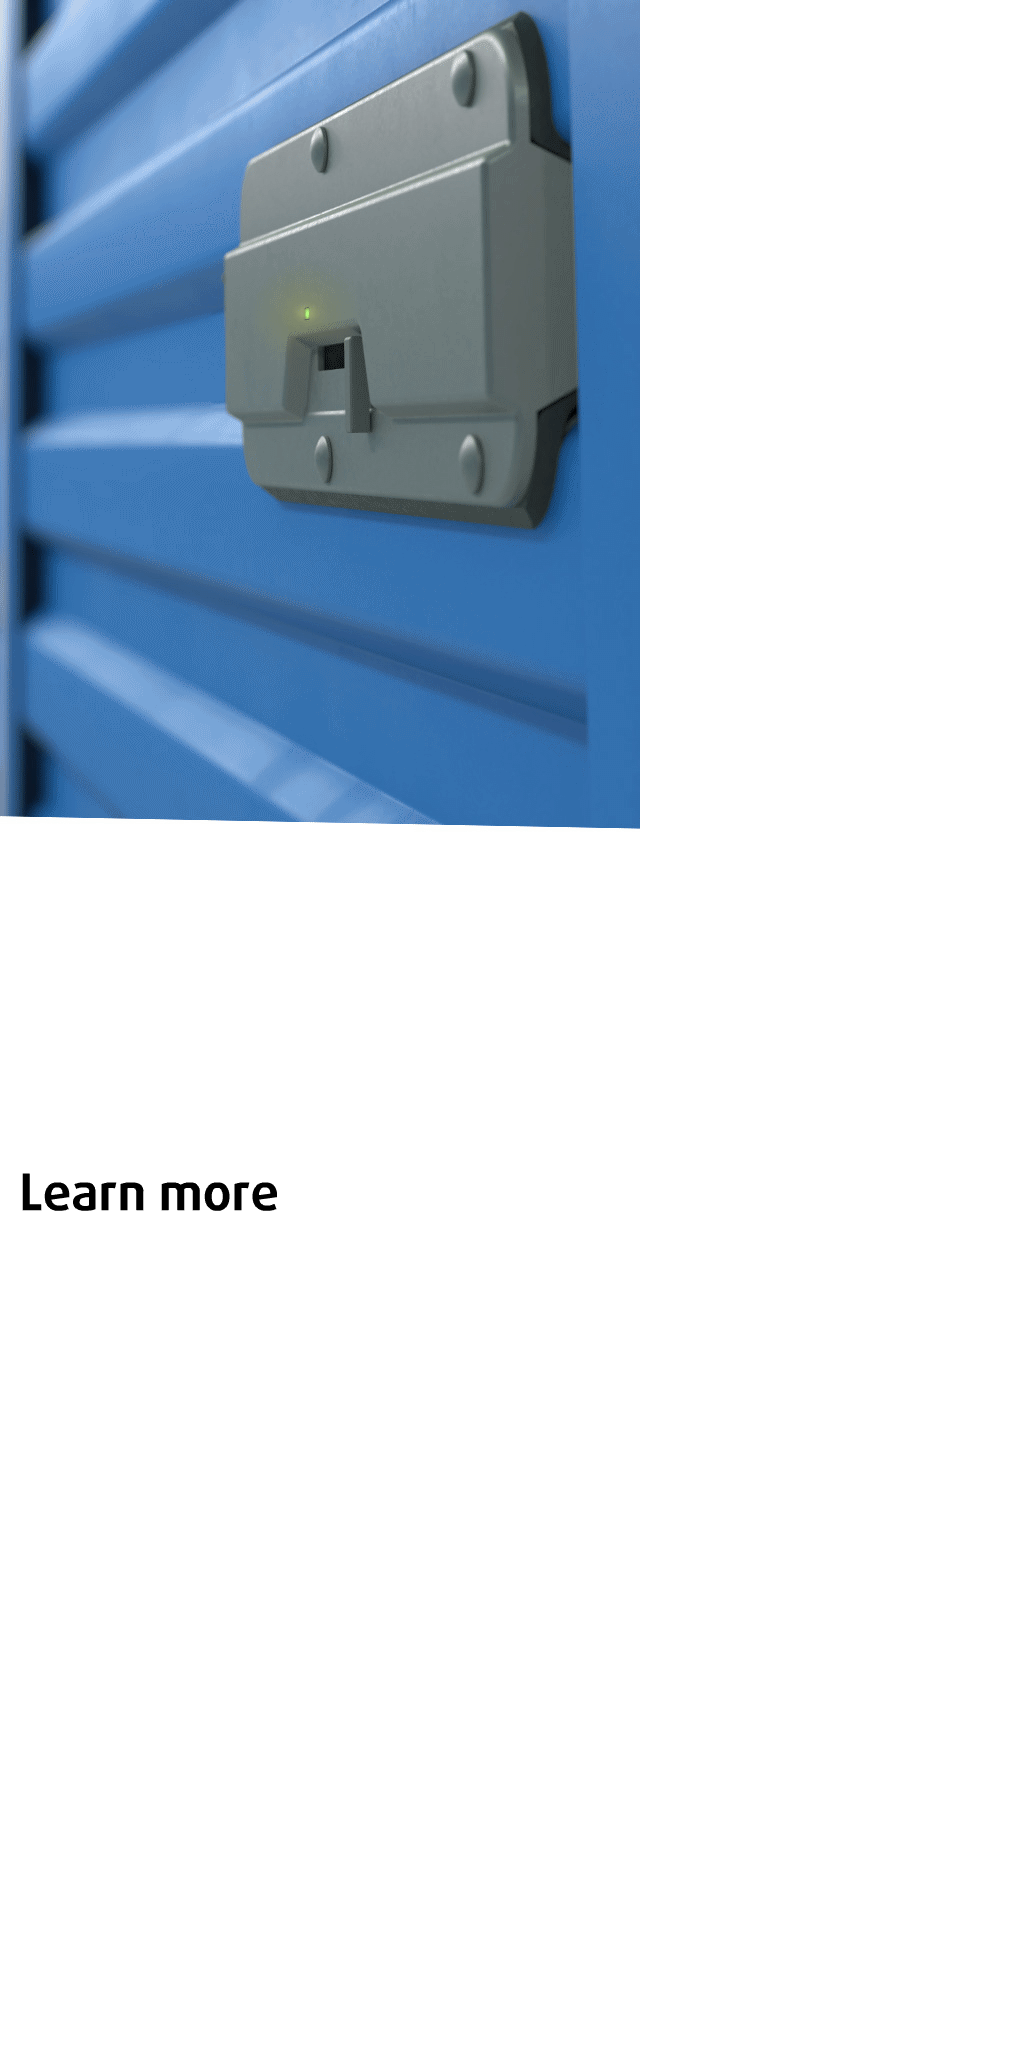
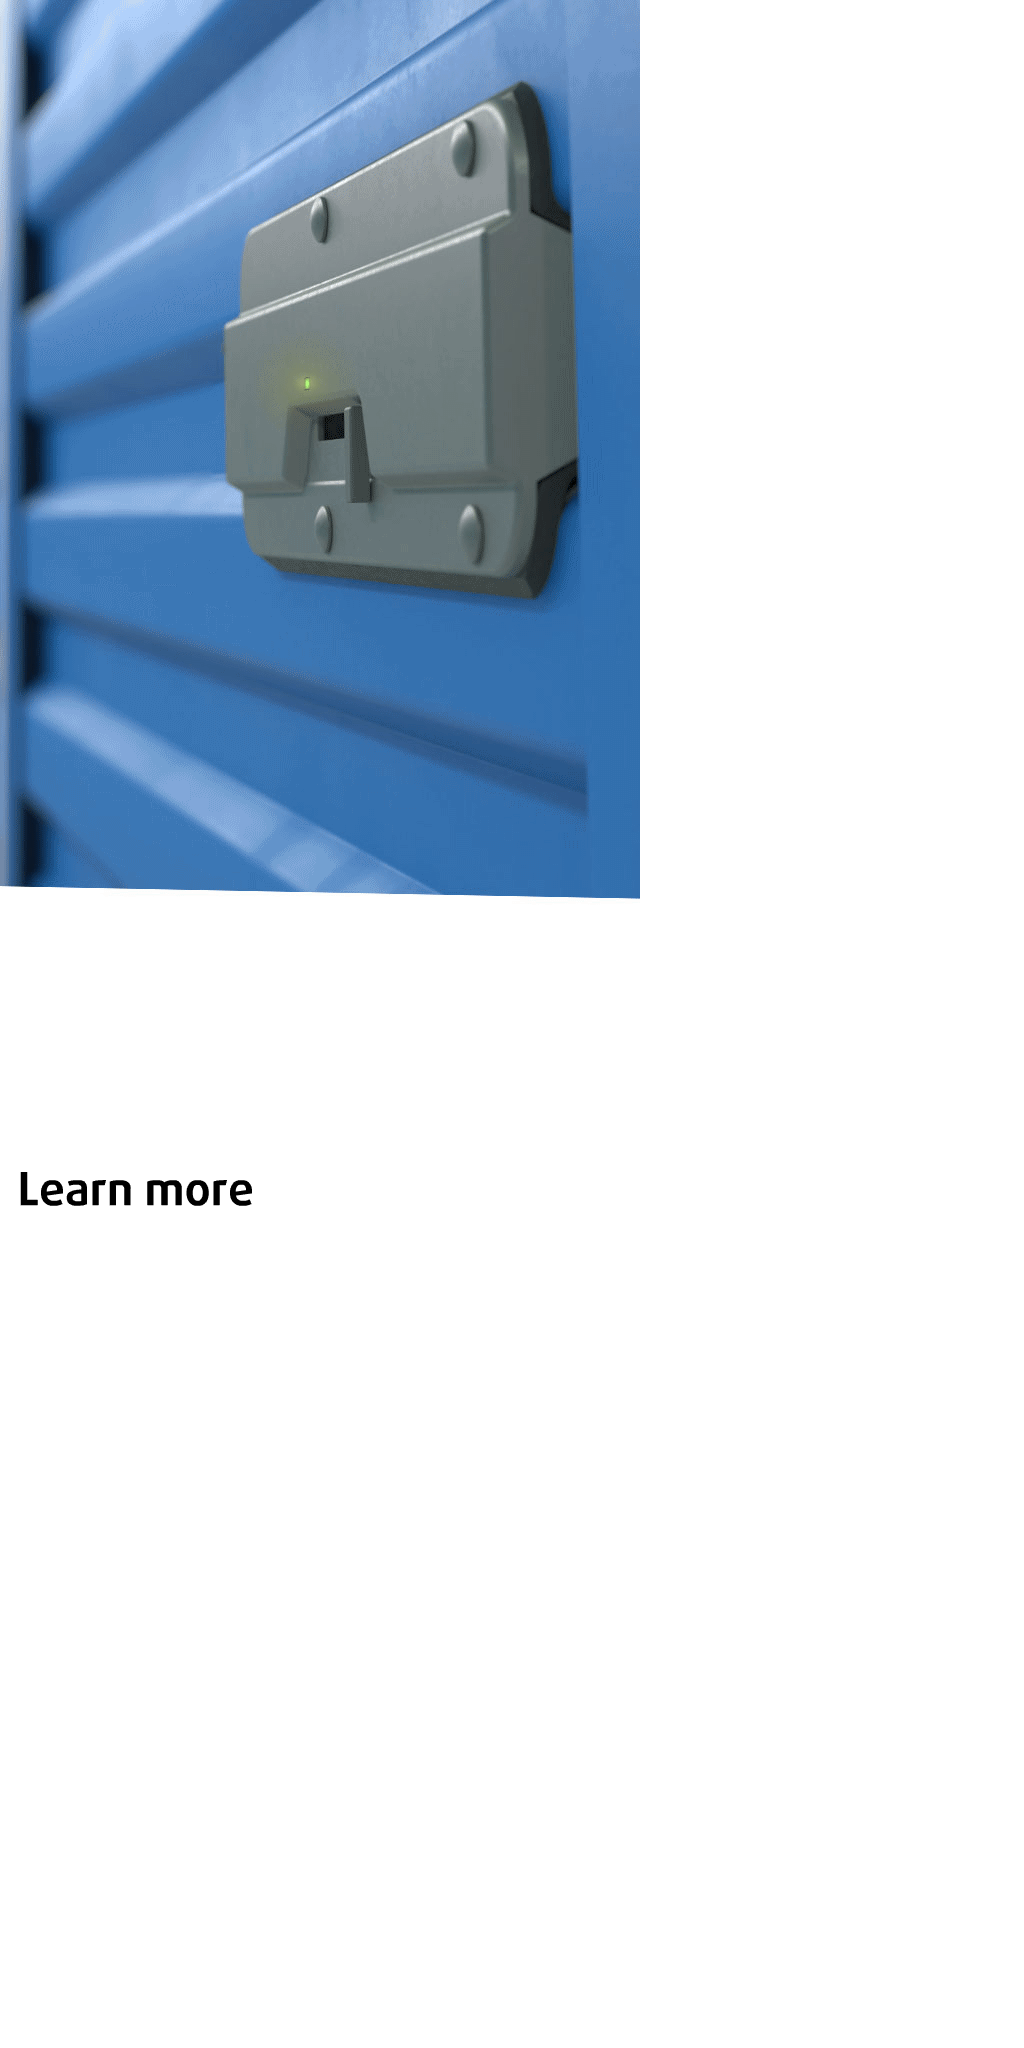
Add files via upload

Changed region(s): [[0.0, 0.0, 0.625, 0.4375], [0.0, 0.5625, 0.2812, 0.5938]]

diff --git a/320x480/Onity_320x480.js b/320x480/Onity_320x480.js
@@ -3,7 +3,7 @@
 var p; // shortcut to reference prototypes
 var lib={};var ss={};var img={};
 lib.ssMetadata = [
-		{name:"Onity_320x480_atlas_1", frames: [[0,962,640,190],[0,1154,299,86],[0,0,640,960]]}
+		{name:"Onity_320x480_atlas_1", frames: [[0,962,640,190],[0,1154,272,78],[0,0,640,960]]}
 ];
 
 
@@ -27,27 +27,27 @@ lib.ssMetadata = [
 
 
 
-(lib.CachedBmp_4 = function() {
-	this.initialize(img.CachedBmp_4);
+(lib.CachedBmp_6 = function() {
+	this.initialize(img.CachedBmp_6);
 }).prototype = p = new cjs.Bitmap();
 p.nominalBounds = new cjs.Rectangle(0,0,3632,1128);
 
 
-(lib.CachedBmp_3 = function() {
+(lib.CachedBmp_5 = function() {
 	this.initialize(ss["Onity_320x480_atlas_1"]);
 	this.gotoAndStop(0);
 }).prototype = p = new cjs.Sprite();
 
 
 
-(lib.CachedBmp_5 = function() {
+(lib.CachedBmp_4 = function() {
 	this.initialize(ss["Onity_320x480_atlas_1"]);
 	this.gotoAndStop(1);
 }).prototype = p = new cjs.Sprite();
 
 
 
-(lib.Onity320x480 = function() {
+(lib.Onity320x480alt = function() {
 	this.initialize(ss["Onity_320x480_atlas_1"]);
 	this.gotoAndStop(2);
 }).prototype = p = new cjs.Sprite();
@@ -82,7 +82,7 @@ if (reversed == null) { reversed = false; }
 	cjs.MovieClip.apply(this,[props]);
 
 	// Passport_svg
-	this.instance = new lib.CachedBmp_4();
+	this.instance = new lib.CachedBmp_6();
 	this.instance.setTransform(0,0,0.5,0.5);
 
 	this.timeline.addTween(cjs.Tween.get(this.instance).wait(1));
@@ -93,7 +93,7 @@ if (reversed == null) { reversed = false; }
 p.nominalBounds = new cjs.Rectangle(0,0,1816,564);
 
 
-(lib.OnityLOGORGBsvg = function(mode,startPosition,loop,reversed) {
+(lib.OnityLOGORGBnoTMsvg = function(mode,startPosition,loop,reversed) {
 if (loop == null) { loop = true; }
 if (reversed == null) { reversed = false; }
 	var props = new Object();
@@ -104,17 +104,17 @@ if (reversed == null) { reversed = false; }
 	props.reversed = reversed;
 	cjs.MovieClip.apply(this,[props]);
 
-	// Onity_LOGO_RGB_svg
+	// Onity_LOGO_RGB_noTM_svg
 	this.shape = new cjs.Shape();
[1 lines of base64/hex data omitted]
-	this.shape.setTransform(714.225,195.95);
[1 lines of base64/hex data omitted]
+	this.shape.setTransform(632.1,195.95);
 
 	this.timeline.addTween(cjs.Tween.get(this.shape).wait(1));
 
 	this._renderFirstFrame();
 
 }).prototype = p = new cjs.MovieClip();
-p.nominalBounds = new cjs.Rectangle(0,0,1428.5,391.9);
+p.nominalBounds = new cjs.Rectangle(0,0,1264.2,391.9);
 
 
 (lib.HEAD = function(mode,startPosition,loop,reversed) {
@@ -129,7 +129,7 @@ if (reversed == null) { reversed = false; }
 	cjs.MovieClip.apply(this,[props]);
 
 	// Layer_1
-	this.instance = new lib.CachedBmp_3();
+	this.instance = new lib.CachedBmp_5();
 	this.instance.setTransform(-160,-47.4,0.5,0.5);
 
 	this.timeline.addTween(cjs.Tween.get(this.instance).wait(1));
@@ -151,21 +151,21 @@ if (reversed == null) { reversed = false; }
 	cjs.MovieClip.apply(this,[props]);
 
 	// Layer_2
-	this.instance = new lib.CachedBmp_5();
-	this.instance.setTransform(-67.95,-19.15,0.4546,0.4546);
+	this.instance = new lib.CachedBmp_4();
+	this.instance.setTransform(-68,-19.2,0.5,0.5);
 
 	this.timeline.addTween(cjs.Tween.get(this.instance).wait(1));
 
 	// Layer_1
 	this.shape = new cjs.Shape();
 	this.shape.graphics.f("#FFFFFF").s().p("AumDkQgogBAAgoIAAl1QAAgoAogBIdNAAQAoABAAAoIAAF1QAAAogoABg");
-	this.shape.setTransform(0.0283,-0.248,0.877,0.8571);
+	this.shape.setTransform(0.073,-0.248,0.7778,0.8571);
 
 	this.timeline.addTween(cjs.Tween.get(this.shape).wait(1));
 
 	this._renderFirstFrame();
 
-}).prototype = getMCSymbolPrototype(lib.CTA, new cjs.Rectangle(-85.5,-19.7,171.1,39.7), null);
+}).prototype = getMCSymbolPrototype(lib.CTA, new cjs.Rectangle(-75.7,-19.7,151.60000000000002,39.5), null);
 
 
 (lib.Passport = function(mode,startPosition,loop,reversed) {
@@ -202,14 +202,14 @@ if (reversed == null) { reversed = false; }
 	cjs.MovieClip.apply(this,[props]);
 
 	// Layer_1
-	this.instance = new lib.OnityLOGORGBsvg("synched",0);
+	this.instance = new lib.OnityLOGORGBnoTMsvg("synched",0);
 	this.instance.setTransform(0,0.05,1,1,0,0,0,714.2,196);
 
 	this.timeline.addTween(cjs.Tween.get(this.instance).wait(1));
 
 	this._renderFirstFrame();
 
-}).prototype = getMCSymbolPrototype(lib.LOGO, new cjs.Rectangle(-714.2,-195.9,1428.5,391.9), null);
+}).prototype = getMCSymbolPrototype(lib.LOGO, new cjs.Rectangle(-714.2,-195.9,1264.2,391.9), null);
 
 
 // stage content:
@@ -242,24 +242,31 @@ if (reversed == null) { reversed = false; }
 
 	// LOGO
 	this.instance = new lib.LOGO();
-	this.instance.setTransform(102.05,34,0.11,0.11,0,0,0,0.5,0);
+	this.instance.setTransform(85.15,441.5,0.09,0.09,0,0,0,0.6,0.6);
 
 	this.timeline.addTween(cjs.Tween.get(this.instance).wait(180));
 
 	// Passport
 	this.instance_1 = new lib.Passport();
-	this.instance_1.setTransform(108,294,0.09,0.09,0,0,0,0.6,0.6);
+	this.instance_1.setTransform(100,52,0.09,0.09,0,0,0,0.6,0.6);
 	this.instance_1.alpha = 0;
 
-	this.timeline.addTween(cjs.Tween.get(this.instance_1).wait(1).to({regX:0,regY:0,x:107.95,y:290.2571,alpha:0.2},0).wait(1).to({y:287.2981,alpha:0.4},0).wait(1).to({y:285.4247,alpha:0.6},0).wait(1).to({y:284.3955,alpha:0.8},0).wait(1).to({regX:0.6,regY:0.6,x:108,y:284,alpha:1},0).wait(175));
+	this.timeline.addTween(cjs.Tween.get(this.instance_1).wait(1).to({regX:0,regY:0,x:100.3193,y:48.2571,alpha:0.2},0).wait(1).to({x:100.6152,y:45.2981,alpha:0.4},0).wait(1).to({x:100.8025,y:43.4247,alpha:0.6},0).wait(1).to({x:100.9054,y:42.3955,alpha:0.8},0).wait(1).to({regX:0.6,regY:0.6,x:101,y:42,alpha:1},0).wait(175));
+
+	// shad
+	this.shape_1 = new cjs.Shape();
+	this.shape_1.graphics.rf(["rgba(0,0,0,0.337)","rgba(0,0,0,0)"],[0,0.502],-0.1,-0.1,0,-0.1,-0.1,272).s().p("A9udxQsTsVAAxcQAAxbMTsWQMUsVRagBQRaABMUMVQMUMWAARbQAARcsUMVQsUMXxagBQxaABsUsXg");
+	this.shape_1.setTransform(94.45,45.2);
+
+	this.timeline.addTween(cjs.Tween.get(this.shape_1).wait(180));
 
 	// CTA
 	this.instance_2 = new lib.CTA();
-	this.instance_2.setTransform(160,450.75);
+	this.instance_2.setTransform(232.85,442.75,0.7921,0.7921,0,0,0,0.5,0.5);
 	this.instance_2.alpha = 0;
 	this.instance_2._off = true;
 
-	this.timeline.addTween(cjs.Tween.get(this.instance_2).wait(19).to({_off:false},0).to({alpha:1},7).wait(61).to({regX:0.1,regY:0.1,scaleX:1.1,scaleY:1.1,y:450.8},3,cjs.Ease.quadIn).to({regX:0,regY:0,scaleX:1,scaleY:1,y:450.75},5).wait(71).to({regX:0.1,regY:0.1,scaleX:1.1,scaleY:1.1,y:450.8},3,cjs.Ease.quadIn).to({regX:0,regY:0,scaleX:1,scaleY:1,y:450.75},5).wait(6));
+	this.timeline.addTween(cjs.Tween.get(this.instance_2).wait(19).to({_off:false},0).to({alpha:1},7).wait(61).to({scaleX:0.8713,scaleY:0.8713},3,cjs.Ease.quadIn).to({scaleX:0.7921,scaleY:0.7921},5).wait(71).to({scaleX:0.8713,scaleY:0.8713},3,cjs.Ease.quadIn).to({scaleX:0.7921,scaleY:0.7921},5).wait(6));
 
 	// HEAD
 	this.instance_3 = new lib.HEAD();
@@ -267,25 +274,25 @@ if (reversed == null) { reversed = false; }
 	this.instance_3.alpha = 0;
 	this.instance_3._off = true;
 
-	this.timeline.addTween(cjs.Tween.get(this.instance_3).wait(8).to({_off:false},0).wait(1).to({y:382.0607,alpha:0.125},0).wait(1).to({y:379.8662,alpha:0.25},0).wait(1).to({y:378.0564,alpha:0.375},0).wait(1).to({y:376.6868,alpha:0.5},0).wait(1).to({y:375.706,alpha:0.625},0).wait(1).to({y:375.0395,alpha:0.75},0).wait(1).to({y:374.6212,alpha:0.875},0).wait(1).to({y:374.4,alpha:1},0).wait(164));
+	this.timeline.addTween(cjs.Tween.get(this.instance_3).wait(8).to({_off:false},0).wait(1).to({y:379.7214,alpha:0.125},0).wait(1).to({y:375.3325,alpha:0.25},0).wait(1).to({y:371.7128,alpha:0.375},0).wait(1).to({y:368.9735,alpha:0.5},0).wait(1).to({y:367.0121,alpha:0.625},0).wait(1).to({y:365.6789,alpha:0.75},0).wait(1).to({y:364.8423,alpha:0.875},0).wait(1).to({y:364.4,alpha:1},0).wait(164));
 
 	// BKGD
-	this.shape_1 = new cjs.Shape();
-	this.shape_1.graphics.f("#19468D").s().p("A4/MgIAA4/MAx/AAAIAAY/g");
-	this.shape_1.setTransform(160,400);
+	this.shape_2 = new cjs.Shape();
+	this.shape_2.graphics.f("#003395").s().p("A4/NSIAA6jMAx/AAAIAAajg");
+	this.shape_2.setTransform(160,395);
 
-	this.timeline.addTween(cjs.Tween.get(this.shape_1).wait(180));
+	this.timeline.addTween(cjs.Tween.get(this.shape_2).wait(180));
 
 	// PIC
-	this.instance_4 = new lib.Onity320x480();
-	this.instance_4.setTransform(0,0,0.5,0.5);
+	this.instance_4 = new lib.Onity320x480alt();
+	this.instance_4.setTransform(0,-10,0.5,0.5);
 
 	this.timeline.addTween(cjs.Tween.get(this.instance_4).wait(180));
 
 	this._renderFirstFrame();
 
 }).prototype = p = new lib.AnMovieClip();
-p.nominalBounds = new cjs.Rectangle(159.5,239.5,161,241);
+p.nominalBounds = new cjs.Rectangle(-14.6,15.7,378.1,464.8);
 // library properties:
 lib.properties = {
 	id: 'A79EFEC4A97F49888D3F6FD01A528C13',
@@ -295,8 +302,8 @@ lib.properties = {
 	color: "#999999",
 	opacity: 1.00,
 	manifest: [
-		{src:"images/CachedBmp_4.png?1680109409549", id:"CachedBmp_4"},
-		{src:"images/Onity_320x480_atlas_1.png?1680109409526", id:"Onity_320x480_atlas_1"}
+		{src:"images/CachedBmp_6.png?1680133182120", id:"CachedBmp_6"},
+		{src:"images/Onity_320x480_atlas_1.png?1680133182087", id:"Onity_320x480_atlas_1"}
 	],
 	preloads: []
 };

diff --git a/320x480/Onity_320x480.html b/320x480/Onity_320x480.html
@@ -19,7 +19,7 @@ var clickTag = "https://www.onity.com/"; </script>
 <!-- DCM/Google/DoubleClick: Change external scripts URL to 2020 version: <script src="https://s0.2mdn.net/ads/studio/cached_libs/createjs_2019.11.15_min.js"></script> -->
 <!-- Remove garbage after .js -->
 <script src="https://code.createjs.com/1.0.0/createjs.min.js"></script>
-<script src="Onity_320x480.js?1680109292765"></script>
+<script src="Onity_320x480.js?1680133182133"></script>
 <script>
 var canvas, stage, exportRoot, anim_container, dom_overlay_container, fnStartAnimation;
 function init() {

diff --git a/menu-pband.html b/menu-pband.html
@@ -1,10 +1,10 @@
 <p><font face="Arial, Helvetica, sans-serif">Onity | Passport
 <img style="float: right; margin: 0px 15px 0px 0px;" src="PBand.png" height="50" alt="PB and Seattle logo" srcset="PBand.png" /><br />Animated display banners</font></p>
    
-
+<!--
 <p><font face="Arial, Helvetica, sans-serif">
 	<a href="passport.html">320x480</a> | <a href="passport-alt.html">320x480-alt</a> 
 	</font></p>
-<!-- <p> &nbsp; </p> -->
+ <p> &nbsp; </p> -->
 
 
